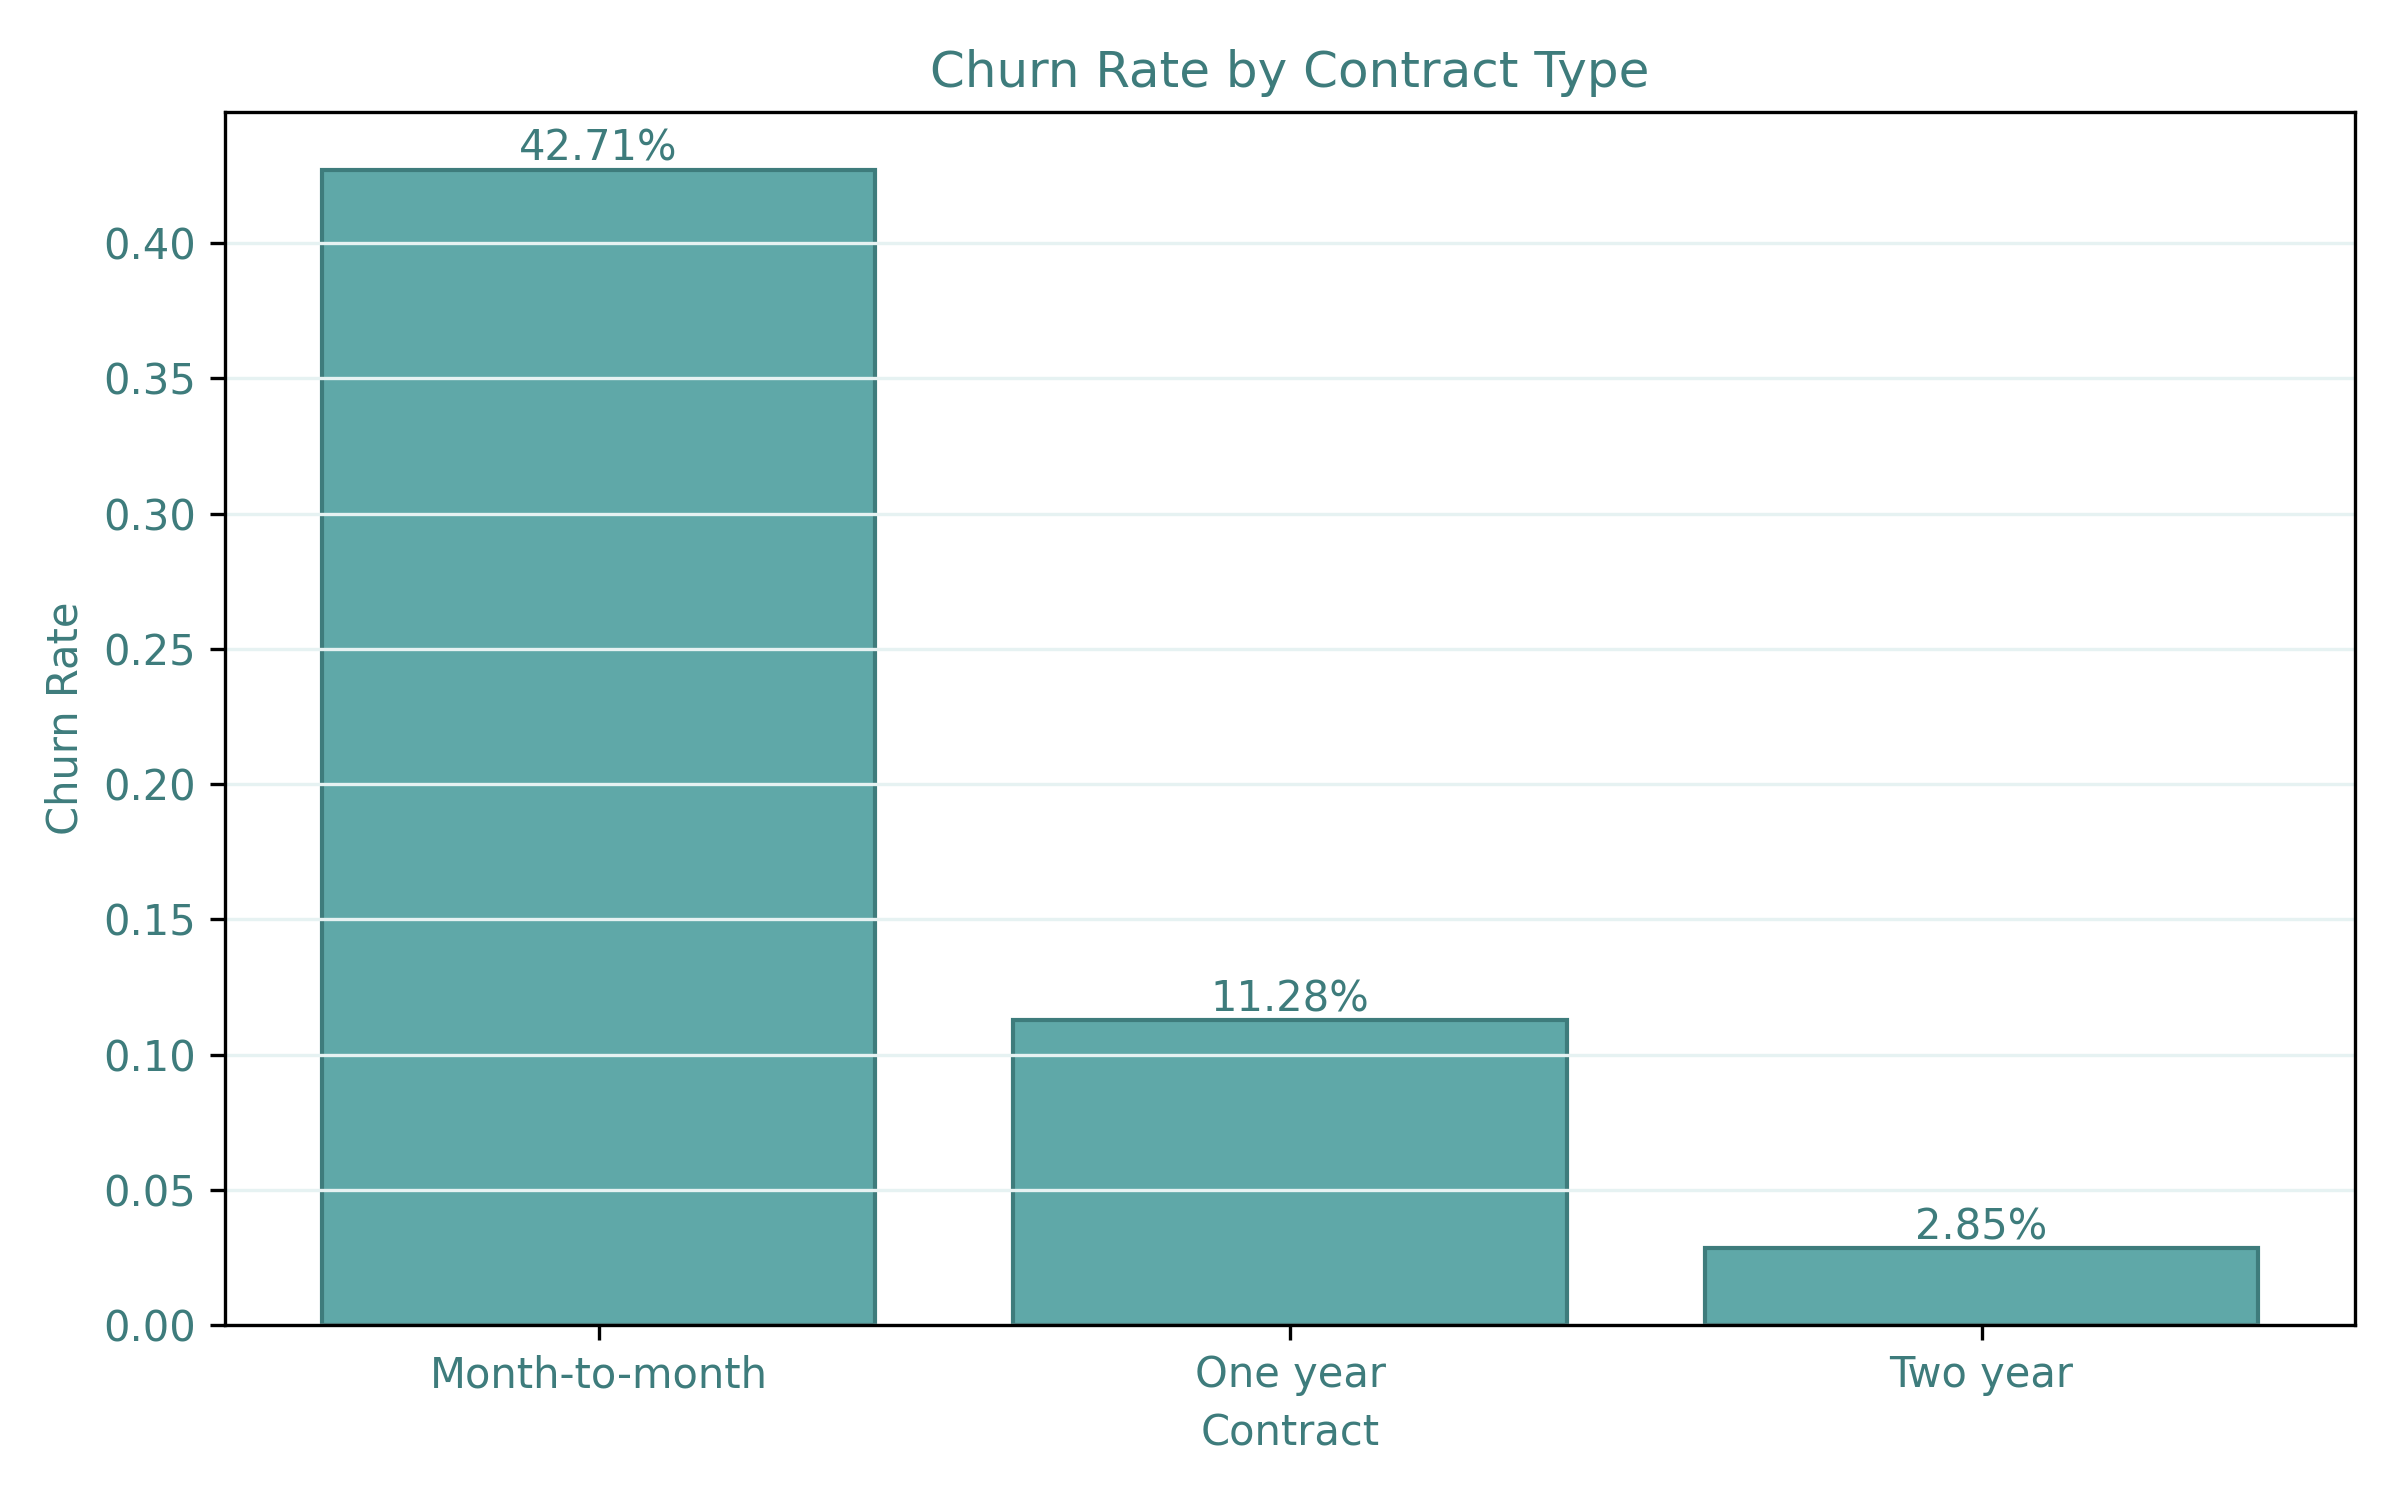
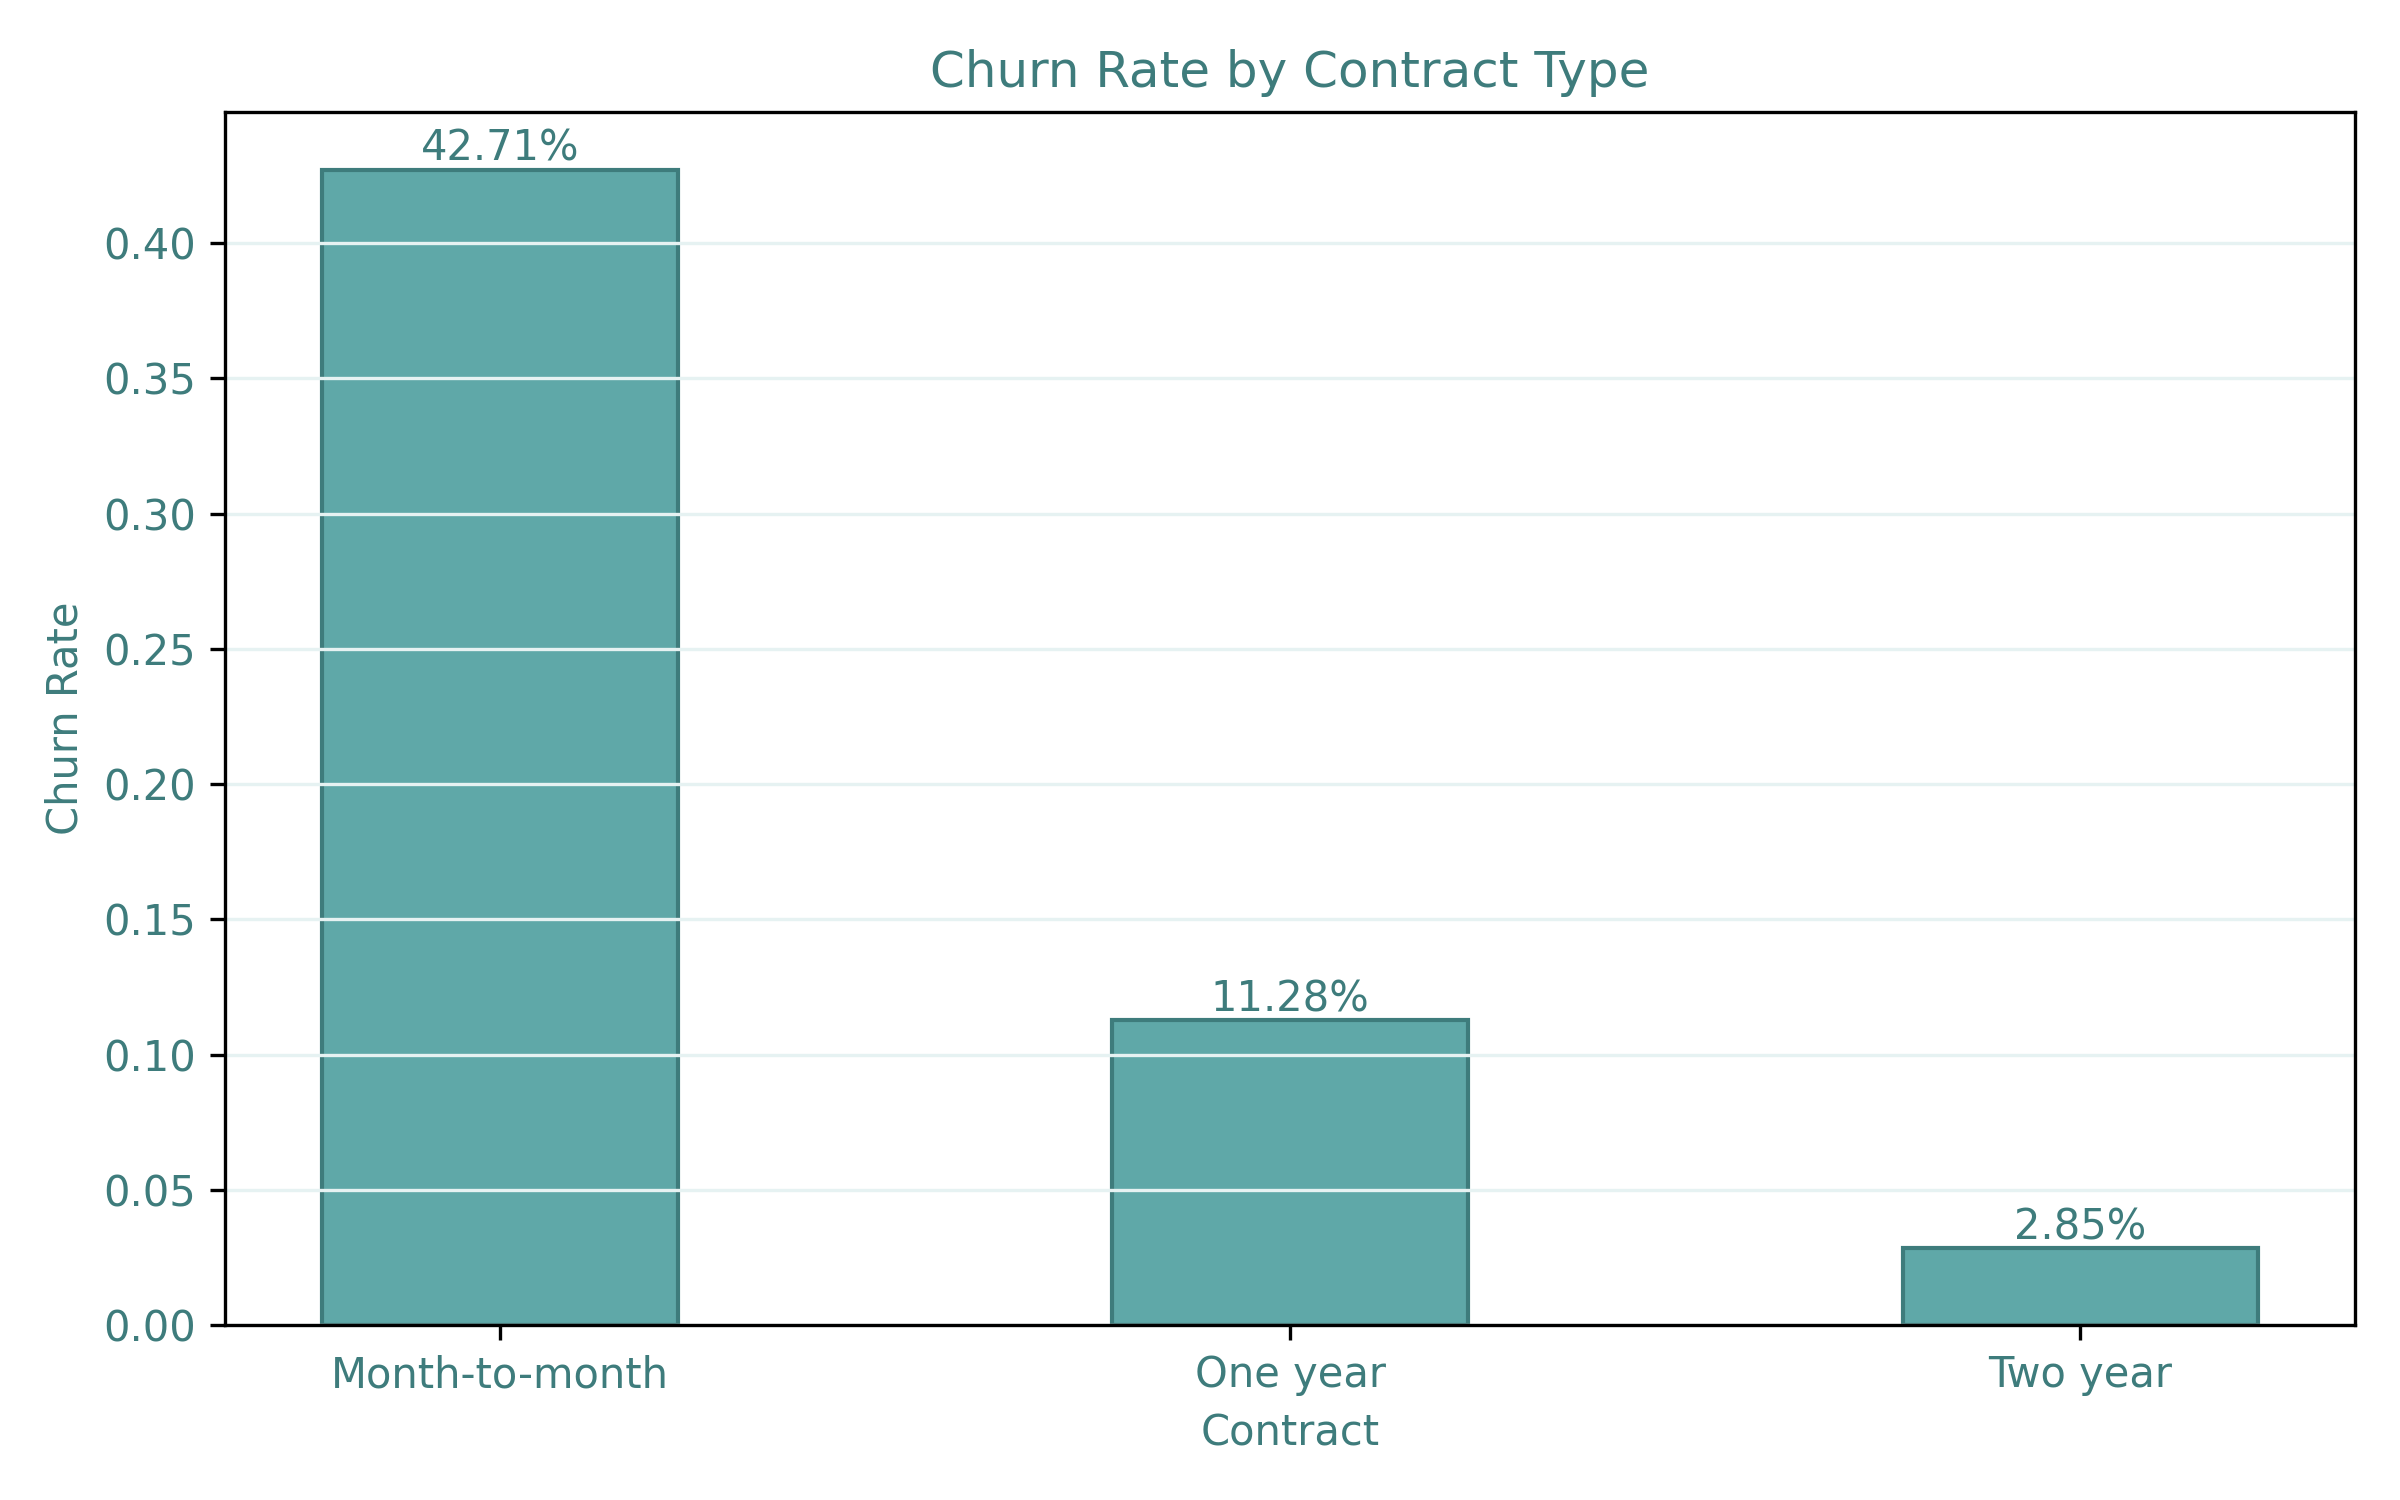
outputs are recreated

diff --git a/src/visualization.py b/src/visualization.py
@@ -14,9 +14,6 @@ GRID_COLOR = "#E6F2F2"
 FIG_SIZE = (8, 5)
 
 
-# -------------------------------------------------
-# Internal helper
-# -------------------------------------------------
 def _save_bar_plot(df, x_col, y_col, title, ylabel, save_path):
     plt.figure(figsize=FIG_SIZE)
 
@@ -24,7 +21,8 @@ def _save_bar_plot(df, x_col, y_col, title, ylabel, save_path):
         df[x_col],
         df[y_col],
         color=MAIN_COLOR,
-        edgecolor=DARK_COLOR
+        edgecolor=DARK_COLOR,
+        width=0.45
     )
 
     plt.title(title, color=DARK_COLOR)
@@ -53,9 +51,6 @@ def _save_bar_plot(df, x_col, y_col, title, ylabel, save_path):
     plt.close()
 
 
-# -------------------------------------------------
-# Plot generators
-# -------------------------------------------------
 def _plot_churn_by_contract(csv_dir, fig_dir):
     df = pd.read_csv(os.path.join(csv_dir, "churn_by_contract.csv"))
 
@@ -115,9 +110,6 @@ def _plot_churn_by_services(csv_dir, fig_dir):
     )
 
 
-# -------------------------------------------------
-# Public API (called from main)
-# -------------------------------------------------
 def generate_visualizations(csv_dir: str, fig_dir: str, doc_path: str) -> None:
     os.makedirs(fig_dir, exist_ok=True)
 
@@ -126,7 +118,4 @@ def generate_visualizations(csv_dir: str, fig_dir: str, doc_path: str) -> None:
     _plot_churn_by_payment(csv_dir, fig_dir)
     _plot_churn_by_services(csv_dir, fig_dir)
 
-
     print("Visualization files created in:", fig_dir)
-
-
